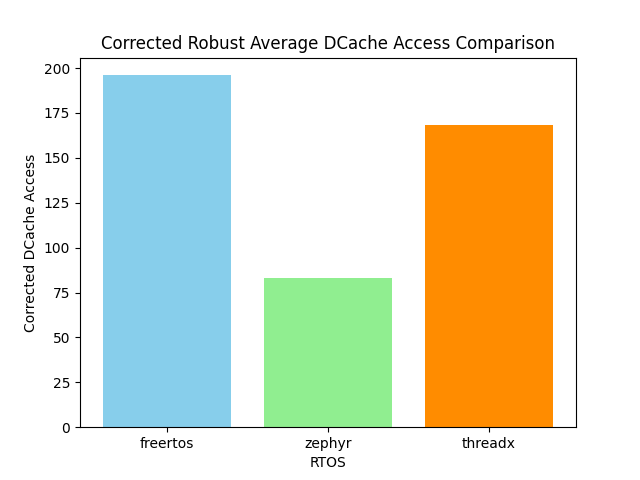
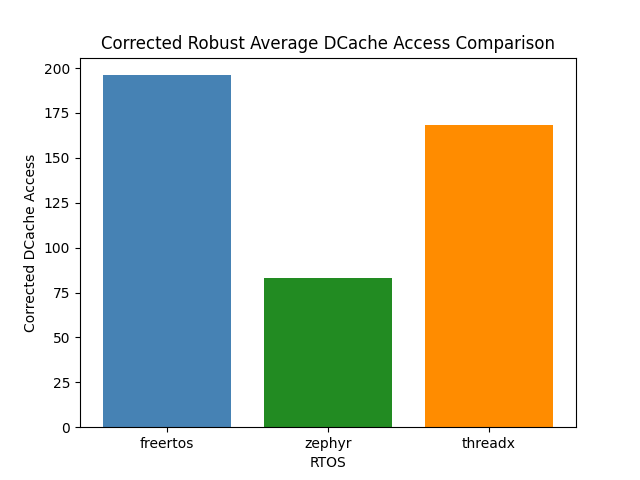
updated task synchroonisation test

Changed region(s): [[0.1562, 0.1562, 0.375, 0.9062], [0.4062, 0.5625, 0.625, 0.9062]]

diff --git a/task_synchronisation_preempt_test/analyse_and_plot.py b/task_synchronisation_preempt_test/analyse_and_plot.py
@@ -1,3 +1,27 @@
+# Copyright (c) <2025> <Marco Milenkovic>
+#
+# This Code was generated with help of the ChatGPT and Github Copilot
+# The Code was carfeully reviewed and adjusted to work as intended
+# The Code is used to analyse and plot the critical section test results
+#
+# Permission is hereby granted, free of charge, to any person obtaining a copy of 
+# this software and associated documentation files (the "Software"), 
+# to deal in the Software without restriction, including without limitation the 
+# rights to use, copy, modify, merge, publish, distribute, sublicense, 
+# and/or sell copies of the Software, and to permit persons to whom the Software 
+# is furnished to do so, subject to the following conditions:
+#
+# The above copyright notice and this permission notice shall be included in all 
+# copies or substantial portions of the Software.
+#
+# THE SOFTWARE IS PROVIDED "AS IS", WITHOUT WARRANTY OF ANY KIND, EXPRESS OR IMPLIED, 
+# INCLUDING BUT NOT LIMITED TO THE WARRANTIES OF MERCHANTABILITY, FITNESS FOR 
+# A PARTICULAR PURPOSE AND NONINFRINGEMENT. IN NO EVENT SHALL THE AUTHORS OR 
+# COPYRIGHT HOLDERS BE LIABLE FOR ANY CLAIM, DAMAGES OR OTHER LIABILITY, WHETHER IN 
+# AN ACTION OF CONTRACT, TORT OR OTHERWISE, ARISING FROM, OUT OF OR IN CONNECTION 
+# WITH THE SOFTWARE OR THE USE OR OTHER DEALINGS IN THE SOFTWARE.
+
+
 import os
 import re
 import numpy as np
@@ -235,7 +259,57 @@ def main():
             f.write(f"Calculated robust time per iteration (us): {time_iteration_calc[rtos]}\n")
             f.write("\n\n")
     
-    
+    import csv
+
+    # Define the CSV output file name.
+    output_csv = "summary.csv"
+    os.makedirs(os.path.dirname(output_csv) or ".", exist_ok=True)
+
+    with open(output_csv, "w", newline="") as csvfile:
+        csvwriter = csv.writer(csvfile)
+        
+        # Write header for the summary statistics section.
+        header = ["RTOS", "Data Type", "Metric", "Min", "Max", "Jitter", "Robust/Corrected Avg"]
+        csvwriter.writerow(header)
+        
+        # Loop over each RTOS and output both RAW and CORRECTED statistics.
+        for rtos in rtoses:
+            # RAW Data section.
+            for key in metric_keys:
+                stat = raw_summary[rtos][key]
+                row = [
+                    rtos,
+                    "RAW",
+                    key,
+                    stat['min'],
+                    stat['max'],
+                    stat['jitter'],
+                    stat['robust_avg']
+                ]
+                csvwriter.writerow(row)
+            # CORRECTED Data section.
+            for key in metric_keys:
+                stat = corrected_summary[rtos][key]
+                row = [
+                    rtos,
+                    "CORRECTED",
+                    key,
+                    stat['min'],
+                    stat['max'],
+                    stat['jitter'],
+                    stat['robust_avg']
+                ]
+                csvwriter.writerow(row)
+        
+        # Add a blank row as a separator.
+        csvwriter.writerow([])
+        
+        # Write header for the calculated robust time per iteration.
+        csvwriter.writerow(["RTOS", "Calculated robust time per iteration (us)"])
+        for rtos in rtoses:
+            csvwriter.writerow([rtos, time_iteration_calc[rtos]])
+
+    print(f"Summary CSV written to {output_csv}")
     # Produce bar plots (one per metric) for both raw and corrected robust averages.
     plots_dir = "plots"
     if not os.path.exists(plots_dir):
@@ -246,7 +320,7 @@ def main():
         values = [summary_dict[rtos][metric]['robust_avg'] for rtos in rtoses]
         plt.figure()
         # plot bars in different colors
-        plt.bar(rtoses, values, color=['skyblue', 'lightgreen', 'darkorange'])
+        plt.bar(rtoses, values, color=['steelblue', 'forestgreen', 'darkorange'])
         plt.xlabel("RTOS")
         plt.ylabel(ylabel)
         plt.title(title)

diff --git a/tests_auf_default/task_synchronisation_preempt_test/analyse_and_plot.py b/tests_auf_default/task_synchronisation_preempt_test/analyse_and_plot.py
@@ -1,3 +1,27 @@
+# Copyright (c) <2025> <Marco Milenkovic>
+#
+# This Code was generated with help of the ChatGPT and Github Copilot
+# The Code was carfeully reviewed and adjusted to work as intended
+# The Code is used to analyse and plot the critical section test results
+#
+# Permission is hereby granted, free of charge, to any person obtaining a copy of 
+# this software and associated documentation files (the "Software"), 
+# to deal in the Software without restriction, including without limitation the 
+# rights to use, copy, modify, merge, publish, distribute, sublicense, 
+# and/or sell copies of the Software, and to permit persons to whom the Software 
+# is furnished to do so, subject to the following conditions:
+#
+# The above copyright notice and this permission notice shall be included in all 
+# copies or substantial portions of the Software.
+#
+# THE SOFTWARE IS PROVIDED "AS IS", WITHOUT WARRANTY OF ANY KIND, EXPRESS OR IMPLIED, 
+# INCLUDING BUT NOT LIMITED TO THE WARRANTIES OF MERCHANTABILITY, FITNESS FOR 
+# A PARTICULAR PURPOSE AND NONINFRINGEMENT. IN NO EVENT SHALL THE AUTHORS OR 
+# COPYRIGHT HOLDERS BE LIABLE FOR ANY CLAIM, DAMAGES OR OTHER LIABILITY, WHETHER IN 
+# AN ACTION OF CONTRACT, TORT OR OTHERWISE, ARISING FROM, OUT OF OR IN CONNECTION 
+# WITH THE SOFTWARE OR THE USE OR OTHER DEALINGS IN THE SOFTWARE.
+
+
 import os
 import re
 import numpy as np
@@ -235,7 +259,57 @@ def main():
             f.write(f"Calculated robust time per iteration (us): {time_iteration_calc[rtos]}\n")
             f.write("\n\n")
     
-    
+    import csv
+
+    # Define the CSV output file name.
+    output_csv = "summary.csv"
+    os.makedirs(os.path.dirname(output_csv) or ".", exist_ok=True)
+
+    with open(output_csv, "w", newline="") as csvfile:
+        csvwriter = csv.writer(csvfile)
+        
+        # Write header for the summary statistics section.
+        header = ["RTOS", "Data Type", "Metric", "Min", "Max", "Jitter", "Robust/Corrected Avg"]
+        csvwriter.writerow(header)
+        
+        # Loop over each RTOS and output both RAW and CORRECTED statistics.
+        for rtos in rtoses:
+            # RAW Data section.
+            for key in metric_keys:
+                stat = raw_summary[rtos][key]
+                row = [
+                    rtos,
+                    "RAW",
+                    key,
+                    stat['min'],
+                    stat['max'],
+                    stat['jitter'],
+                    stat['robust_avg']
+                ]
+                csvwriter.writerow(row)
+            # CORRECTED Data section.
+            for key in metric_keys:
+                stat = corrected_summary[rtos][key]
+                row = [
+                    rtos,
+                    "CORRECTED",
+                    key,
+                    stat['min'],
+                    stat['max'],
+                    stat['jitter'],
+                    stat['robust_avg']
+                ]
+                csvwriter.writerow(row)
+        
+        # Add a blank row as a separator.
+        csvwriter.writerow([])
+        
+        # Write header for the calculated robust time per iteration.
+        csvwriter.writerow(["RTOS", "Calculated robust time per iteration (us)"])
+        for rtos in rtoses:
+            csvwriter.writerow([rtos, time_iteration_calc[rtos]])
+
+    print(f"Summary CSV written to {output_csv}")
     # Produce bar plots (one per metric) for both raw and corrected robust averages.
     plots_dir = "plots"
     if not os.path.exists(plots_dir):
@@ -246,7 +320,7 @@ def main():
         values = [summary_dict[rtos][metric]['robust_avg'] for rtos in rtoses]
         plt.figure()
         # plot bars in different colors
-        plt.bar(rtoses, values, color=['skyblue', 'lightgreen', 'darkorange'])
+        plt.bar(rtoses, values, color=['steelblue', 'forestgreen', 'darkorange'])
         plt.xlabel("RTOS")
         plt.ylabel(ylabel)
         plt.title(title)
